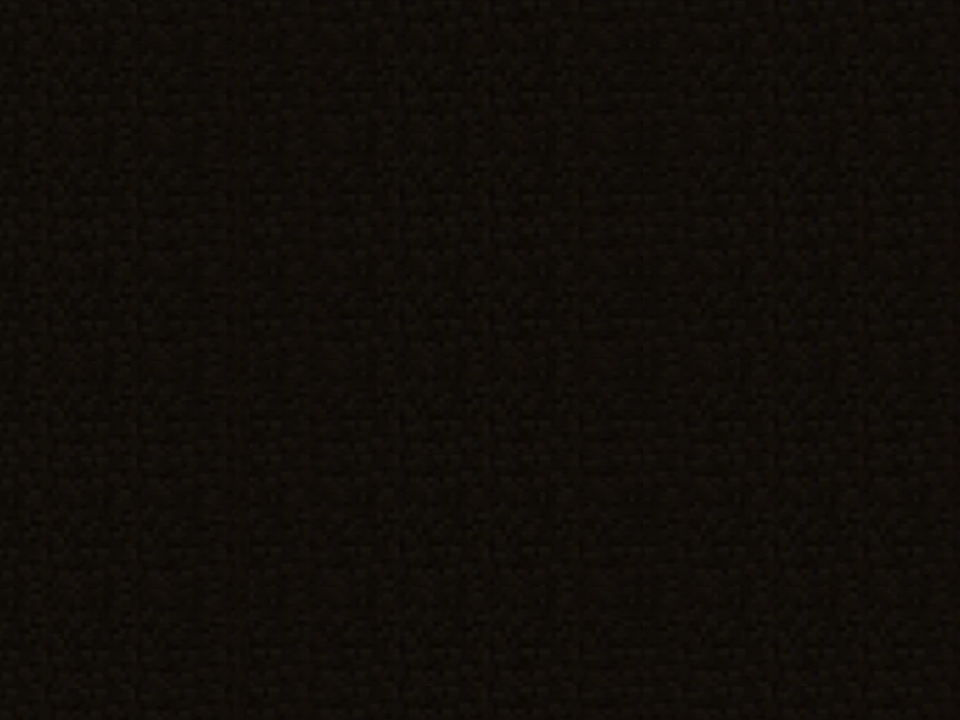
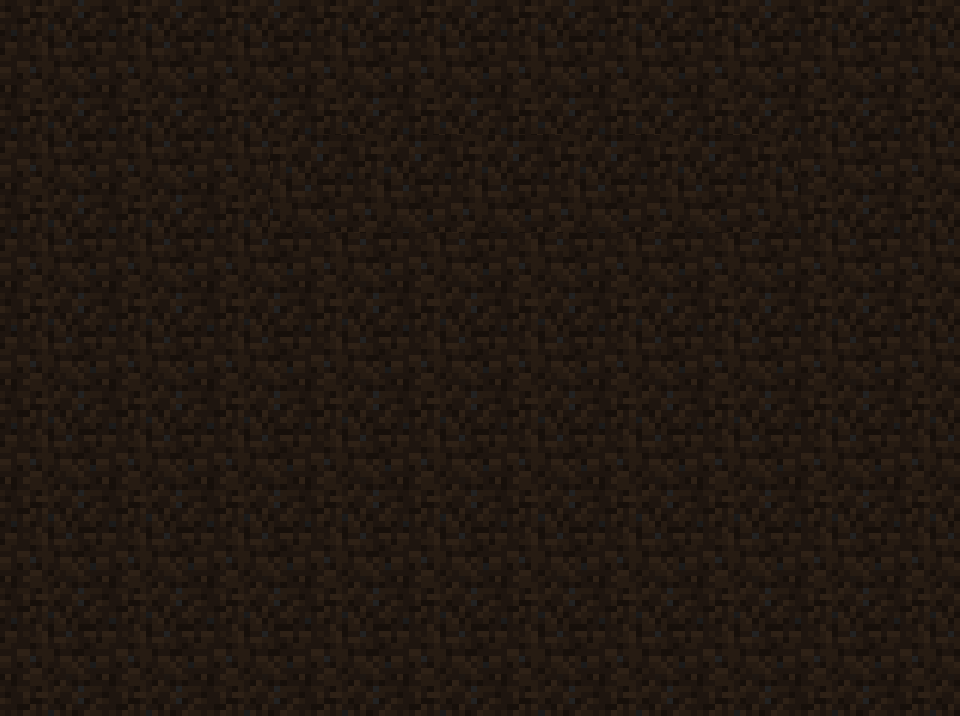
importing assets... DONT TOUCH

Changed region(s): [[0.0, 0.0, 1.0, 1.0]]

diff --git a/main.py b/main.py
@@ -7,15 +7,14 @@ root.title('Eaglercraft 1.20')
 root.geometry('800x600')
 
 def extract_png_asset(asset_name):
-    return PhotoImage('assets/' + asset_name + '.png')
+    return PhotoImage(file='assets/' + asset_name + '.png')
 
-panorama_photo = extract_png_asset('panorama')
 titlescreen_top_photo = extract_png_asset('titlescreen_top')
 dirt_bg_photo = extract_png_asset('dirt_bg')
 download_terrian_photo = extract_png_asset('download_terrain')
 original_server_photo = extract_png_asset('original_server')
-panorama_photo = extract_png_asset('panorama')
-timed_out_photo = extract_png_asset('times_out')
+titlescreen_bg_photo = extract_png_asset('titlescreen_bg')
+timed_out_photo = extract_png_asset('timed_out')
 back_2_titlescreen_photo = extract_png_asset('buttons/back_2_titlescreen')
 cancel_photo = extract_png_asset('buttons/cancel')
 done_photo = extract_png_asset('buttons/done')
@@ -26,8 +25,8 @@ realms_photo = extract_png_asset('buttons/realms')
 singleplayer_photo = extract_png_asset('buttons/singleplayer')
 
 
-
-
+dirt_bg = Label(image=dirt_bg_photo)
+dirt_bg.pack()
 
 
 
